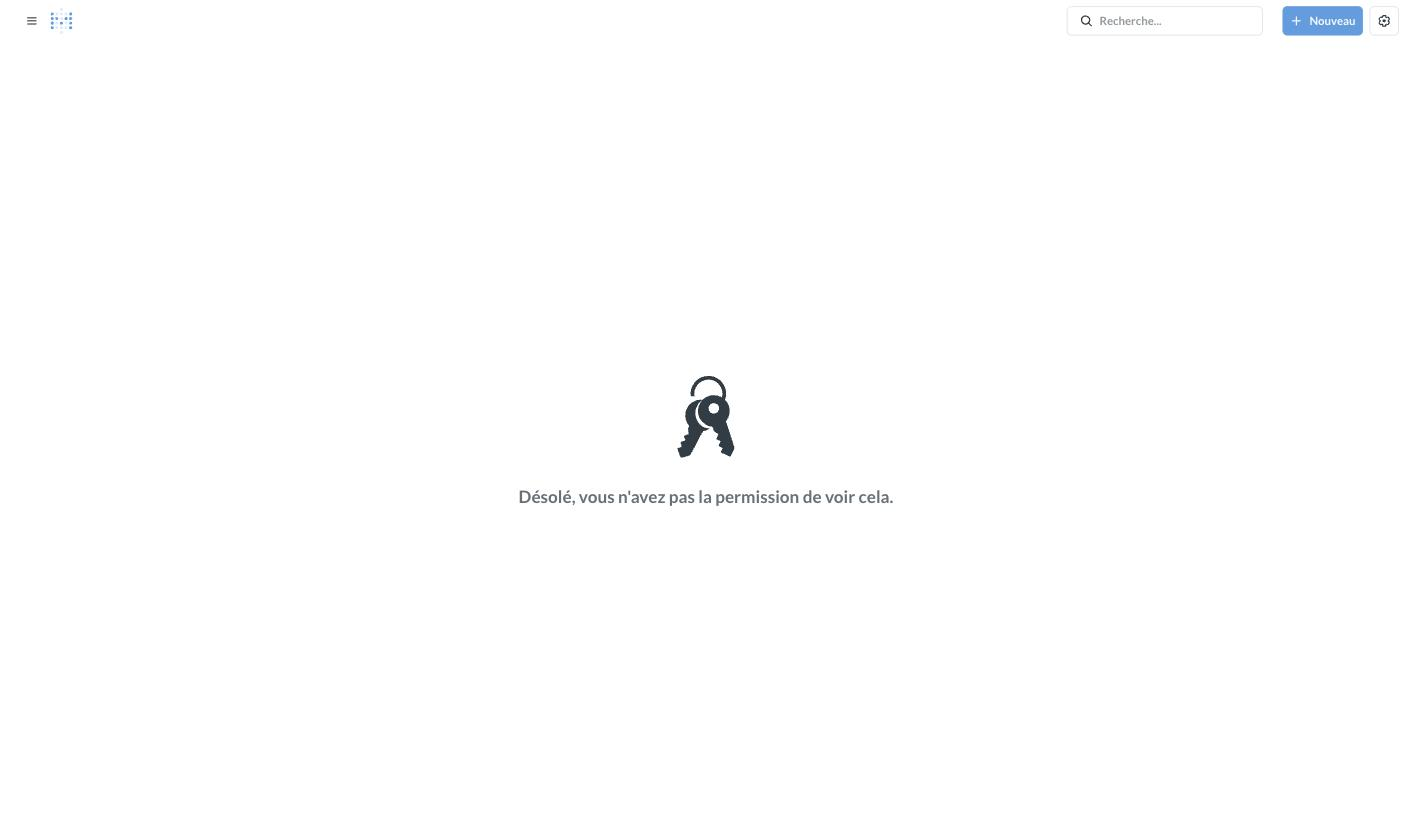
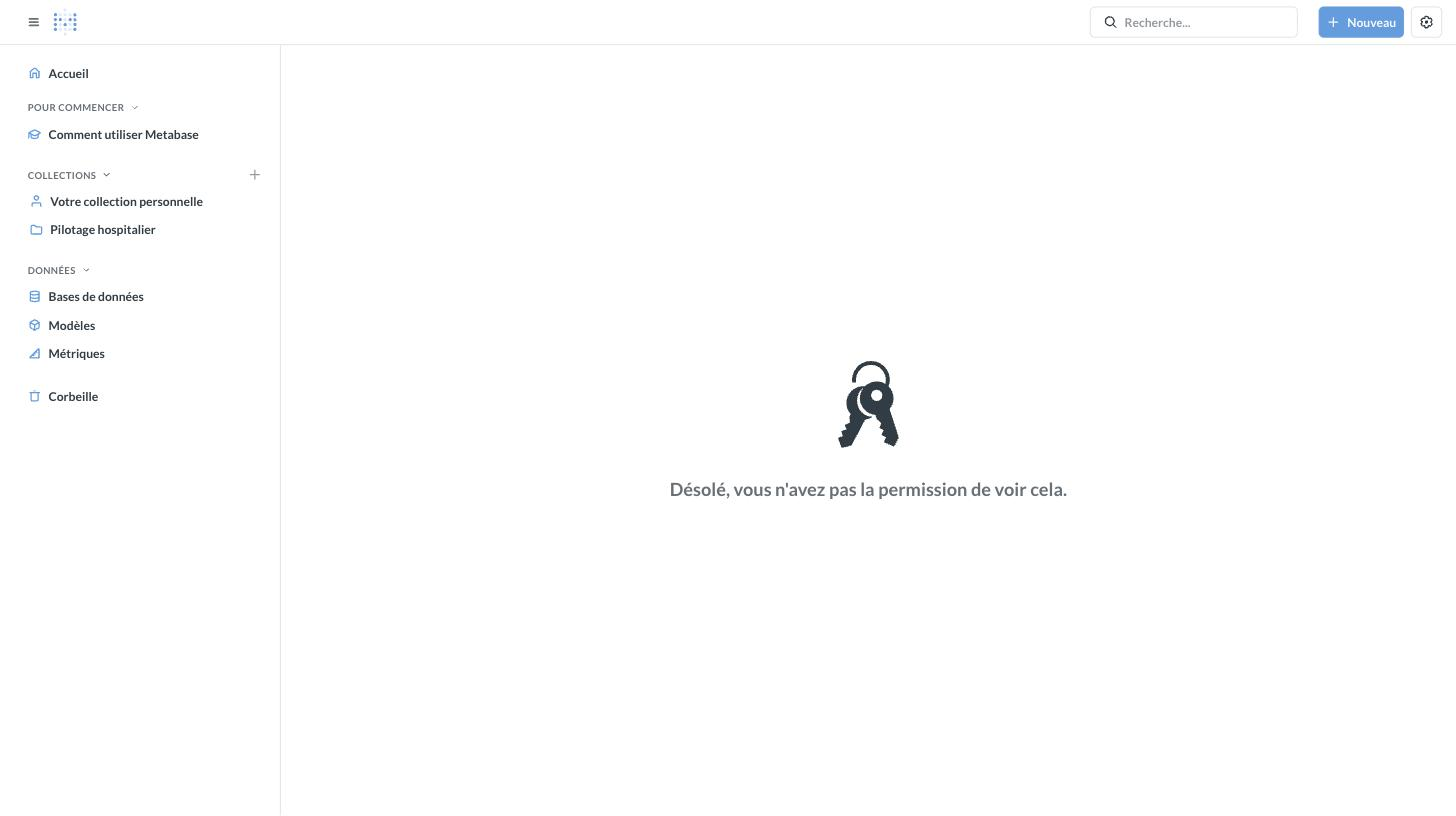
docs: la démonstration visuelle du cloisonnement, vue du compte pilotage
Le sujet demande une « démonstration du cloisonnement des droits ». Elle
reposait jusqu'ici sur une commande rejouable et une capture d'un écran de
refus qui ne montrait ni qui se voyait refuser, ni quoi. Trois captures
prises depuis une session du compte pilotage la complètent :

- sa barre latérale ne contient qu'une collection et qu'un tableau de bord ;
- son explorateur de données ne contient qu'une connexion ;
- une adresse hors périmètre saisie à la main est refusée, la barre latérale
  attestant de l'identité du compte refusé.

Ce n'est pas du masquage : l'autre usage n'existe pas de son point de vue.

Un comportement de Metabase mérite d'être signalé plutôt que subi : un
tableau de bord hors périmètre répond « page introuvable » et non « accès
refusé ». Un refus explicite confirmerait l'existence de la ressource et
permettrait de l'énumérer par essais successifs. C'est documenté au rapport
et dans CLAUDE.md, pour que personne ne cherche à « corriger » ce silence.

La capture de refus précédente, redondante, est retirée.

Claude-Session: https://claude.ai/code/session_0145R44frZ8pv2YnrzC7i3HS

diff --git a/docs/RAPPORT.md b/docs/RAPPORT.md
@@ -637,10 +637,30 @@ jeu synthétique dont les prévalences n'ont aucune valeur clinique (§8.1).
 Le niveau qui compte est le premier. Les deux autres organisent l'interface ; celui-là
 oppose un refus même à une requête SQL écrite à la main.
 
-Le résultat se constate directement : interrogée avec le compte `pilotage`, l'interface ne
-liste **qu'un** tableau de bord, **une** collection et **une** base de données — celle de
-son usage. Il n'y a pas de contenu grisé ni de connexion inaccessible : l'autre usage
-n'existe simplement pas de son point de vue.
+Le résultat se constate directement. Voici ce que voit un utilisateur connecté avec le
+compte **pilotage** : une seule collection dans sa barre latérale, un seul tableau de bord.
+
+![Ce que voit un utilisateur pilotage](img/cloisonnement-vue-pilotage.jpg)
+
+Et une seule connexion dans l'explorateur de données — celle de son usage :
+
+![Une seule base de données accessible](img/cloisonnement-bases-pilotage.jpg)
+
+Il n'y a **pas de contenu grisé ni de connexion inaccessible** : l'autre usage n'existe
+simplement pas de son point de vue. C'est une propriété plus forte qu'un masquage, et elle
+est vérifiée par la suite d'intégration, qui interroge l'API avec les identifiants de
+chaque utilisateur et exige exactement une entrée dans chaque liste.
+
+S'il devine l'adresse de l'espace de recherche et la saisit à la main, il est refusé — la
+barre latérale montre bien que c'est le compte pilotage qui se voit opposer ce refus :
+
+![Accès refusé hors périmètre](img/cloisonnement-acces-refuse.jpg)
+
+**Un détail qui va dans le bon sens.** Sur un tableau de bord hors périmètre, Metabase ne
+répond pas « accès refusé » mais « page introuvable ». La nuance n'est pas cosmétique : un
+refus explicite confirmerait l'existence de la ressource, et permettrait d'énumérer par
+essais successifs ce que contient l'espace de recherche. Ici, l'utilisateur n'apprend même
+pas que ce tableau de bord existe.
 
 **Une précaution qui ne relève pas de la confidentialité mais de la disponibilité.** Les
 deux comptes autorisent le SQL libre depuis Metabase. Le `GRANT SELECT` empêche toute
@@ -650,10 +670,10 @@ temps d'exécution et mémoire bornés) et un quota horaire sont donc attachés 
 comptes. Les seuils sont très au-dessus d'un usage normal : ils n'interdisent rien, ils
 arrêtent une boucle emballée.
 
-**Démonstration.** Plutôt qu'une capture d'écran — qui montre un refus sans prouver *qui*
-s'est vu refuser *quoi* — la démonstration est **rejouable en une commande**.
-`uv run eds check-cloisonnement` se connecte réellement avec chaque compte et teste les deux
-barrières :
+**Démonstration.** Les captures ci-dessus montrent le résultat, mais une capture se périme
+et ne prouve rien d'un état courant. La démonstration qui compte est donc **rejouable en une
+commande** : `uv run eds check-cloisonnement` se connecte réellement avec chaque compte et
+teste les deux barrières, sur l'installation de celui qui la lance :
 
 ```
             Cloisonnement des accès (ClickHouse)
@@ -686,10 +706,7 @@ une régression du cloisonnement ferait échouer les tests, elle ne pourrait pas
 inaperçue.
 
 Ni l'un ni l'autre compte n'a accès aux couches bronze, silver ou d'exploitation : celles-ci
-restent réservées au compte technique du pipeline. Voici ce que voit un utilisateur
-« pilotage » qui tente d'ouvrir le tableau de bord de recherche :
-
-![Accès refusé hors périmètre](img/cloisonnement-acces-refuse.jpg)
+restent réservées au compte technique du pipeline.
 
 ---
 

diff --git a/CLAUDE.md b/CLAUDE.md
@@ -53,6 +53,7 @@ Le plan d'implémentation complet et autosuffisant est dans **`PLAN.md`** — le
 - **Deux séries d'ordres de grandeur différents** : sans `graph.y_axis.auto_split: False`, Metabase les place sur deux axes Y distincts et des barres de hauteur comparable représentent des effectifs dans un rapport de 1 à 10.
 - **Format des nombres** : `custom-formatting` (`type/Number.number_separators = ", "`) est posé au provisionnement, sinon l'interface française affiche « 14,864 ». Inutile d'y ajouter `date_style` : Metabase ne l'applique pas aux colonnes des requêtes SQL natives.
 - **Le refus doit être un vrai refus** : `check-cloisonnement` ne compte comme preuve qu'un échec portant `ACCESS_DENIED` ou `NOT_ENOUGH_PRIVILEGES`. Un `except Exception` nu ferait passer au vert une base absente ou un moteur arrêté.
+- **Metabase répond 404, pas 403, sur un dashboard hors périmètre** (403 sur une collection). Ce n'est pas un bug : un refus explicite confirmerait l'existence de la ressource et permettrait de l'énumérer. Ne pas « corriger » ce comportement en cherchant un message d'erreur plus bavard.
 
 ## État livré — chiffres de référence
 

diff --git a/README.md b/README.md
@@ -68,9 +68,10 @@ nulle part ailleurs, pour qu'ils ne puissent pas devenir faux.
 
 > **Démonstration du cloisonnement** : `uv run eds check-cloisonnement` teste les deux
 > barrières et affiche le résultat — ClickHouse refuse la requête hors périmètre, et
-> Metabase refuse l'ouverture du tableau de bord de l'autre usage. Vous pouvez le
-> constater vous-même : connectez-vous en `pilotage`, puis tentez d'ouvrir le dashboard
-> de recherche.
+> Metabase ne montre pas le contenu de l'autre usage. Vous pouvez le constater vous-même :
+> connectez-vous en `pilotage`, vous ne verrez **qu'une** collection, **qu'un** tableau de
+> bord et **qu'une** base de données. Les captures sont en
+> [§6.2 du rapport](docs/RAPPORT.md#62-le-cloisonnement-à-trois-niveaux).
 
 ---
 
